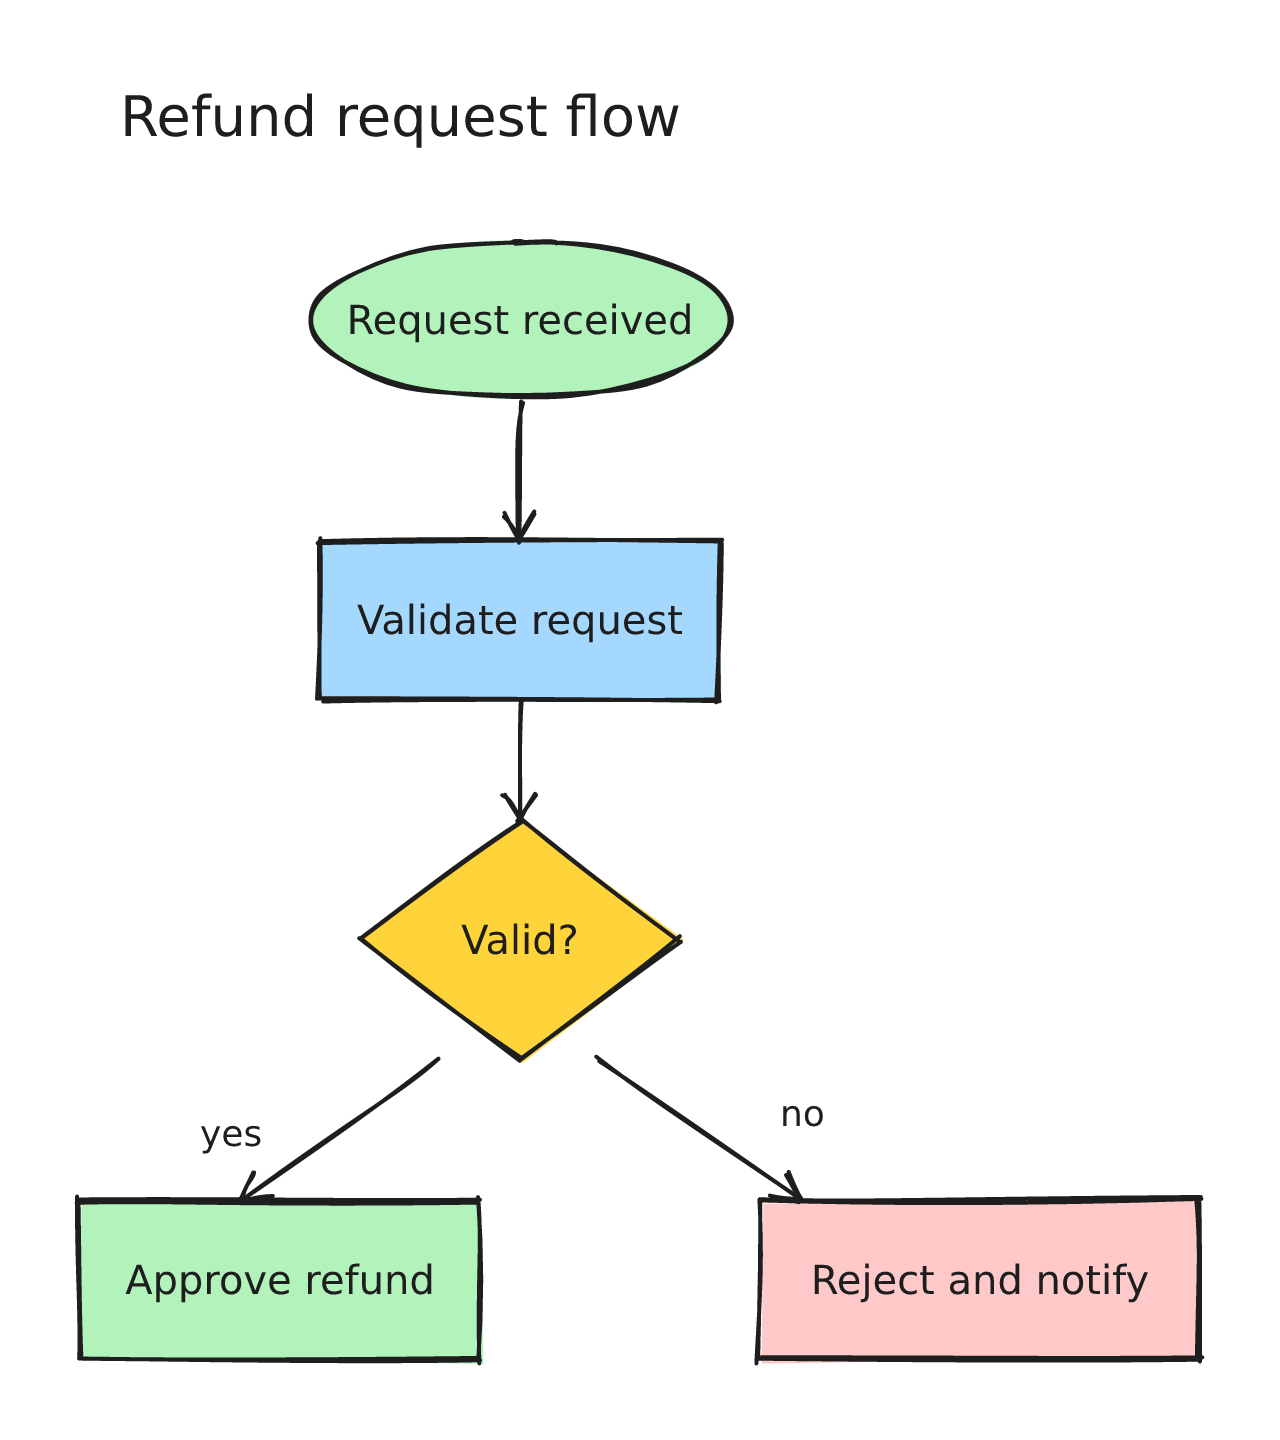
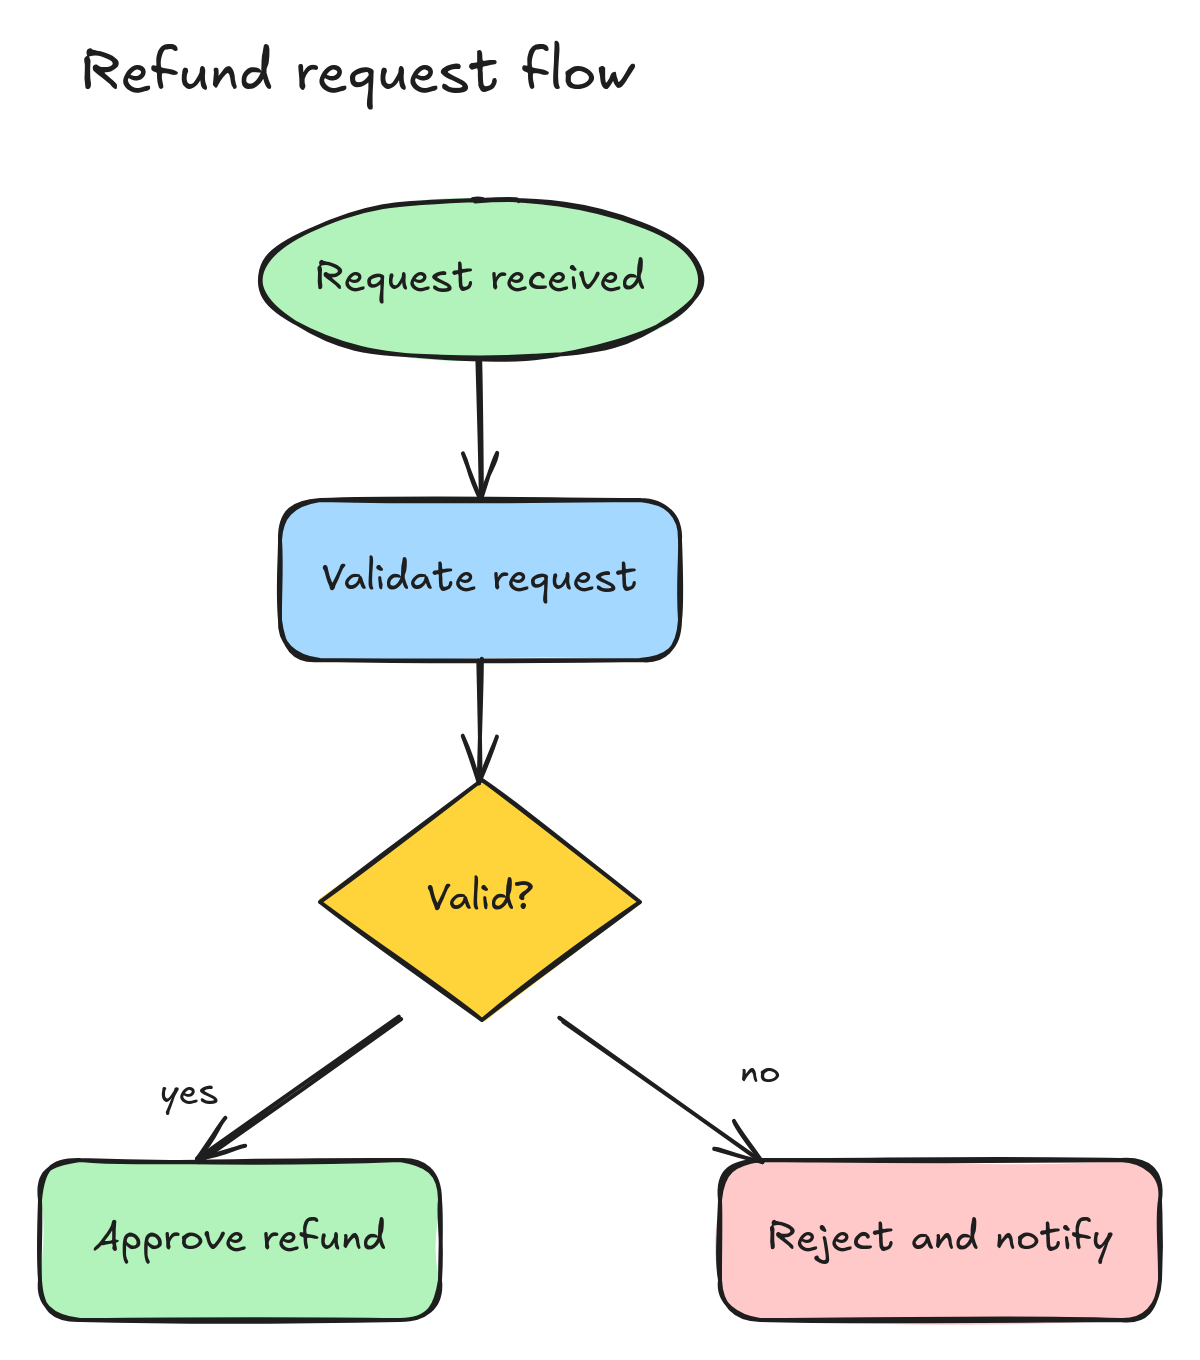
feat(diagrams): use the official Excalidraw CLI
Replace @moona3k/excalidraw-export with @excalidraw/cli 0.3.0 through headless Firefox ESR. The official CLI renders Excalifont and hand-drawn output; the script passes the Firefox path, sets --out and --scale, and re-renders the templates.

diff --git a/README.md b/README.md
@@ -41,6 +41,7 @@ A reusable [Dev Container](https://containers.dev) definition that turns a fresh
 | **Kubernetes** | kubectl, Helm, kind, kubectx, kubens |
 | **CLI tools** | git, GitHub CLI (`gh`), fzf, ripgrep (`rg`), Glow (`glow`) with `less` pager, curl, OpenSSH client, unzip, zip, yq |
 | **AI & workflow** | OpenCode 2.3.0, Neovim 0.12.6, Starship 1.27.0 |
+| **Rendering** | Firefox ESR (headless) for the official Excalidraw CLI and PNG diagram rendering |
 | **Shell** | aliases from `aliases.sh`, a `k` wrapper (`k ns`, `k ctx`, otherwise kubectl), kubectl and Helm completion, bracketed paste, TERM fallback, Starship prompt |
 | **Persistence** | named volumes for OpenCode, OpenTUI, uv, Neovim, Kubernetes config, and `/worktrees` |
 
@@ -401,10 +402,12 @@ the PNG is for Markdown. Commit both.
 scripts/render-excalidraw.sh docs/diagrams/refund-process.excalidraw
 ```
 
-The renderer uses `@moona3k/excalidraw-export` 0.2.1, a pure-computation
-renderer with no browser. It downloads the pinned package on first use and
-uses the npm cache after that. The `diagramming-processes` skill is not
-refreshed by `scripts/update-writing-skills.sh`; it is repository-owned.
+The renderer uses the official `@excalidraw/cli` 0.3.0 through the headless
+Firefox ESR installed in the devcontainer. It downloads the pinned CLI on first
+use and uses the npm cache after that. Firefox ESR adds about 272 MB plus its
+GTK and Mesa dependencies to the image; the CLI does not download a browser.
+The `diagramming-processes` skill is not refreshed by
+`scripts/update-writing-skills.sh`; it is repository-owned.
 
 To refresh the vendored trees, run `scripts/update-writing-skills.sh`; use
 `--check` to verify that the working tree matches the pinned commits. To
@@ -417,6 +420,7 @@ network access and are not part of the smoke suite.
 A few choices are intentional and worth knowing before changing the setup:
 
 - The non-root user uses `/bin/bash` because some Dev Container Features run `su <user> -c` snippets that rely on bash builtins.
+- Firefox ESR is installed only for headless Excalidraw rendering. It is not a user-facing browser; it adds about 272 MB plus GTK and Mesa dependencies, and the official CLI drives it through Playwright's Firefox channel.
 - `libatomic1` is required by the official Node.js arm64 binaries, and `ripgrep` avoids OpenCode's arm64 fallback path.
 - `less` is installed from Debian because Glow's `--pager` mode defaults to `less -r`, and `debian:bookworm-slim` does not include a pager.
 - Mount targets are created and chowned in the image so fresh named volumes are writable by `developer`; `post-create.sh` repairs existing volumes.

diff --git a/.opencode/skills/diagramming-processes/SKILL.md b/.opencode/skills/diagramming-processes/SKILL.md
@@ -37,10 +37,10 @@ below forbids.
   a `diagrams/` directory beside the documents that embed them. In this
   repository, use `docs/diagrams/` when no local convention exists.
 - Run `scripts/render-excalidraw.sh <source.excalidraw> [...]` after every
-  source edit. The script writes `<source>.png` at 2x scale. It uses
-  `@moona3k/excalidraw-export` 0.2.1, a pure-computation renderer with no
-  browser. The first run downloads the pinned package; later runs use the npm
-  cache.
+  source edit. The script writes `<source>.png` at 2x scale. It uses the
+  official `@excalidraw/cli` 0.3.0 through the headless Firefox ESR installed
+  in the devcontainer. The first run downloads the pinned CLI; later runs use
+  the npm cache.
 - When a source changes, its PNG is regenerated in the same change. If the
   render cannot run, delete the stale PNG and record the pending render in the
   diagram index; never leave a stale image to mislead.
@@ -198,10 +198,10 @@ box, which is a failure.
 scripts/render-excalidraw.sh docs/diagrams/refund-process.excalidraw
 ```
 
-The script writes `docs/diagrams/refund-process.png` at 2x scale. It uses
-`@moona3k/excalidraw-export` 0.2.1, a pure-computation renderer with no browser.
-The first run downloads the package; later runs use the npm cache. Run
-`bash -n scripts/render-excalidraw.sh` after editing the script.
+The script writes `docs/diagrams/refund-process.png` at 2x scale. It uses the
+official `@excalidraw/cli` 0.3.0 through the headless Firefox ESR installed in
+the devcontainer. The first run downloads the CLI; later runs use the npm
+cache. Run `bash -n scripts/render-excalidraw.sh` after editing the script.
 
 ## Embedding
 

diff --git a/.opencode/skills/diagramming-processes/UPSTREAM.md b/.opencode/skills/diagramming-processes/UPSTREAM.md
@@ -12,8 +12,9 @@ This skill is repository-owned. It is not refreshed from upstream.
   [github/awesome-copilot](https://github.com/github/awesome-copilot),
   `skills/excalidraw-diagram-generator`, commit
   `a06ba06d11f41b996f8c246e2a452e1bf3a17950` (MIT, Copyright GitHub, Inc.).
-- Renderer: [`@moona3k/excalidraw-export`](https://www.npmjs.com/package/@moona3k/excalidraw-export)
-  0.2.1 (MIT), invoked by `scripts/render-excalidraw.sh`. It is not vendored.
+- Renderer: [`@excalidraw/cli`](https://github.com/excalidraw/cli) 0.3.0
+  (MIT), invoked by `scripts/render-excalidraw.sh`. It is not vendored. It
+  renders through the Firefox ESR browser installed by the devcontainer.
 
 Vendored: 2026-11-16.
 
